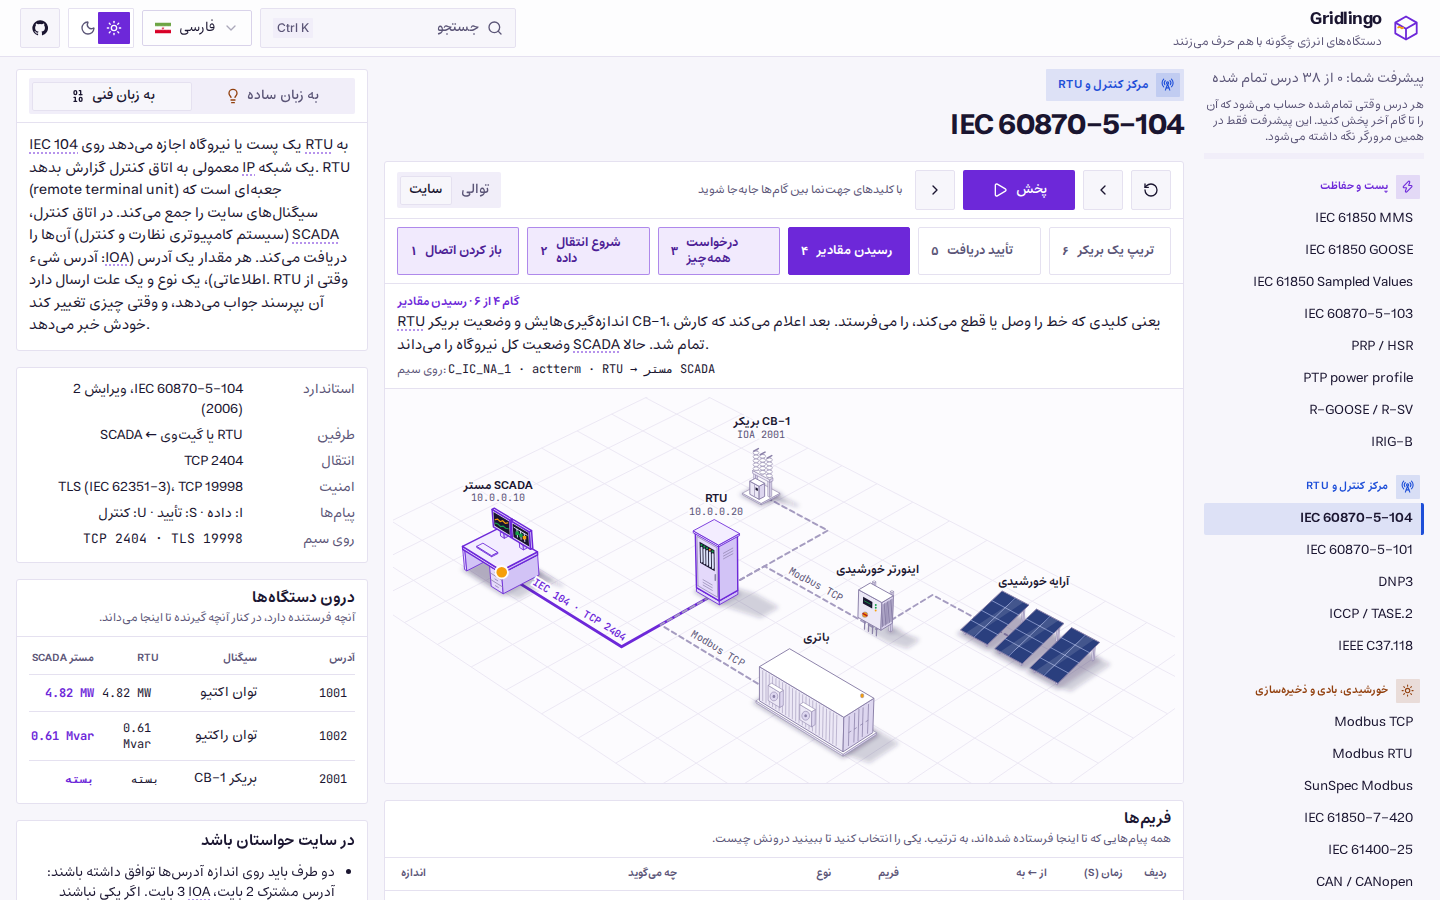
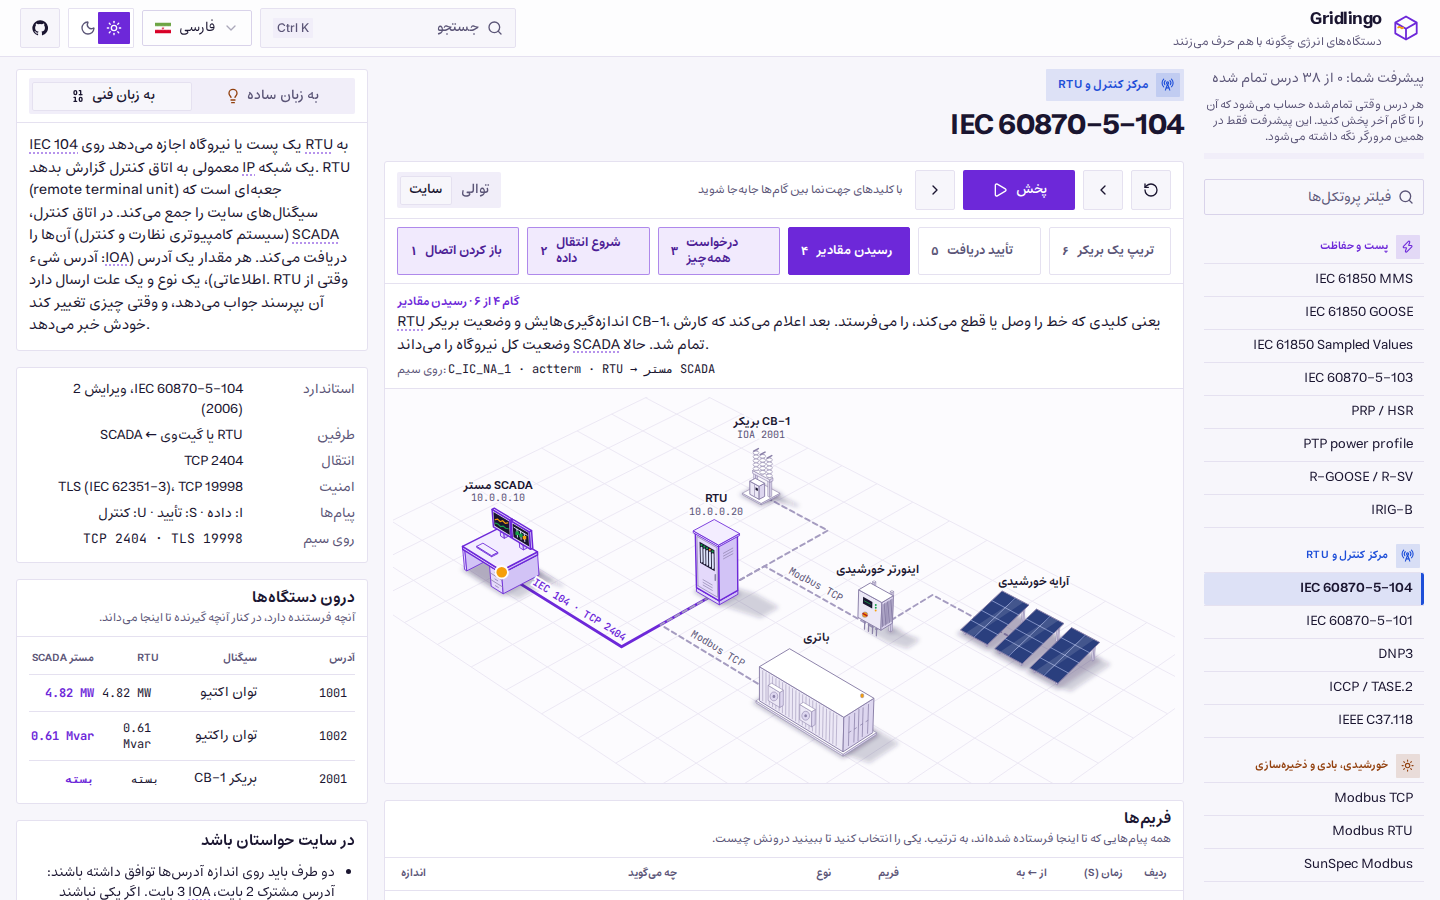
feat(nav): filter the protocol list as you type, thin lines between protocols
The list of protocols beside a lesson (and in the phone's sheet) now opens
with a field that narrows it as the reader types, by the same words as the
search: name, how it travels (a port such as 2404), summary and devices,
every word typed having to match. Groups with nothing left are hidden;
"Nothing found." shows when nothing matches. The field stays at the top
while the list scrolls. Thin lines now separate the protocols.

The search's words became a shared wordsOf, used by both. New text
"nav.filter" in all 14 languages; a new e2e test types into the field.

Checks: build, lint, typecheck, 1,149 unit tests, visual baselines
regenerated, e2e 119 passed.

Changed region(s): [[0.8125, 0.5289, 1.0, 0.9956], [0.875, 0.1867, 1.0, 0.4978]]

diff --git a/src/layout/ProtocolNav.tsx b/src/layout/ProtocolNav.tsx
@@ -1,15 +1,27 @@
-import { CircleCheck } from "lucide-react";
+import { CircleCheck, Search } from "lucide-react";
+import { useState } from "react";
+import { Input } from "@/components/ui/input";
 import { useI18n, type MessageKey } from "@/i18n/i18n";
 import { CATALOG, GROUPS } from "@/lessons/catalog";
 import { cn } from "@/lib/utils";
 import { GroupIcon, groupVars } from "./GroupIcon";
 import { useDone } from "@/progress";
 import { Link } from "@/router";
+import { wordsOf } from "./Search";
 
-/** Every protocol by group, the current one marked; `onPick` closes the sheet it sits in on a phone. */
+/**
+ * Every protocol by group, the current one marked, with a field that narrows the list as the reader types (by the same
+ * words as the search); `onPick` closes the sheet it sits in on a phone.
+ */
 export function ProtocolNav({ current, onPick }: { current: string; onPick?: () => void }) {
     const { t } = useI18n();
     const done = useDone();
+    const [query, setQuery] = useState("");
+    const asked = query.toLocaleLowerCase().split(/\s+/).filter(Boolean);
+    const shown = CATALOG.filter((meta) => {
+        const words = wordsOf(meta, t).join(" ").toLocaleLowerCase();
+        return asked.every((word) => words.includes(word));
+    });
     return (
         <nav aria-label={t("nav.protocols")} className="space-y-4">
             <div className="space-y-2">
@@ -19,14 +31,19 @@ export function ProtocolNav({ current, onPick }: { current: string; onPick?: () 
                     <div className="h-1.5 bg-[linear-gradient(90deg,var(--primary),var(--gold))]" style={{ width: `${(done.length / CATALOG.length) * 100}%` }} />
                 </div>
             </div>
-            {GROUPS.map((group) => (
+            <div className="sticky top-0 z-10 bg-background py-1">
+                <Search aria-hidden="true" className="pointer-events-none absolute start-2.5 top-1/2 size-4 -translate-y-1/2 text-muted-foreground" />
+                <Input type="search" value={query} onChange={(event) => setQuery(event.target.value)} placeholder={t("nav.filter")} aria-label={t("nav.filter")} className="h-9 ps-8" />
+            </div>
+            {!shown.length && <p className="px-1 text-sm text-muted-foreground">{t("search.empty")}</p>}
+            {GROUPS.filter((group) => shown.some((meta) => meta.group === group)).map((group) => (
                 <div key={group} className="space-y-1" style={groupVars(group)}>
                     <h2 className="flex items-center gap-2 px-1 text-[11px] font-semibold tracking-wider text-[var(--g)] uppercase">
                         <GroupIcon group={group} className="size-6" />
                         {t(`group.${group}` as MessageKey)}
                     </h2>
-                    <ul>
-                        {CATALOG.filter((meta) => meta.group === group).map((meta) => (
+                    <ul className="divide-y border-y">
+                        {shown.filter((meta) => meta.group === group).map((meta) => (
                             <li key={meta.id}>
                                 <Link
                                     to={`/p/${meta.id}`}

diff --git a/src/layout/Search.tsx b/src/layout/Search.tsx
@@ -5,6 +5,7 @@ import { CommandDialog, CommandEmpty, CommandGroup, CommandInput, CommandItem, C
 import { Kbd } from "@/components/ui/kbd";
 import { useI18n, type MessageKey } from "@/i18n/i18n";
 import { CATALOG, GROUPS } from "@/lessons/catalog";
+import type { Meta } from "@/lessons/types";
 import { navigate } from "@/router";
 
 // One search for the whole site: every button opens the same dialog
@@ -45,6 +46,11 @@ export function SearchButton({ wide = false }: { wide?: boolean }) {
  * The search dialog, once per page: finds a protocol by its name, its port, the devices it is met on or what it does.
  * Ctrl K or ⌘ K opens it, and "/" when no field has the focus.
  */
+/** The words a protocol is found by, in the reader's language: its name, how it travels, its summary, its devices. */
+export function wordsOf(meta: Meta, t: ReturnType<typeof useI18n>["t"]): string[] {
+    return [meta.name, meta.wire, t(`lesson.${meta.id}.summary` as MessageKey), ...meta.devices.map((device) => t(`device.${device}` as MessageKey))];
+}
+
 export function SearchDialog() {
     const { t } = useI18n();
     const isOpen = useSyncExternalStore(subscribe, () => open, () => false);
@@ -72,7 +78,7 @@ export function SearchDialog() {
                             <CommandItem
                                 key={meta.id}
                                 value={meta.id}
-                                keywords={[meta.name, meta.wire, t(`lesson.${meta.id}.summary` as MessageKey), ...meta.devices.map((device) => t(`device.${device}` as MessageKey))]}
+                                keywords={wordsOf(meta, t)}
                                 onSelect={() => {
                                     setOpen(false);
                                     navigate(`/p/${meta.id}`);

diff --git a/e2e/app.spec.ts b/e2e/app.spec.ts
@@ -104,6 +104,17 @@ test("the theme and the language are kept, and Arabic reads right to left", asyn
     await expect(page.locator("html")).toHaveClass(/dark/);
 });
 
+test("the protocol list beside a lesson narrows as you type", async ({ page, isMobile }) => {
+    test.skip(isMobile, "the list stands beside the lesson on a desktop");
+    await open(page, "/p/iec-104");
+    const list = page.getByRole("navigation", { name: "Protocols" });
+    await list.getByRole("searchbox", { name: "Filter protocols" }).fill("modbus tcp");
+    await expect(list.getByRole("link", { name: "Modbus TCP", exact: true })).toBeVisible();
+    await expect(list.getByRole("link", { name: "DNP3", exact: true })).toBeHidden();
+    await list.getByRole("searchbox", { name: "Filter protocols" }).fill("no such protocol");
+    await expect(list.getByText("Nothing found.")).toBeVisible();
+});
+
 test("a first visit starts light, even on a device set to dark", async ({ page }) => {
     await page.emulateMedia({ colorScheme: "dark" });
     await page.goto("/");
